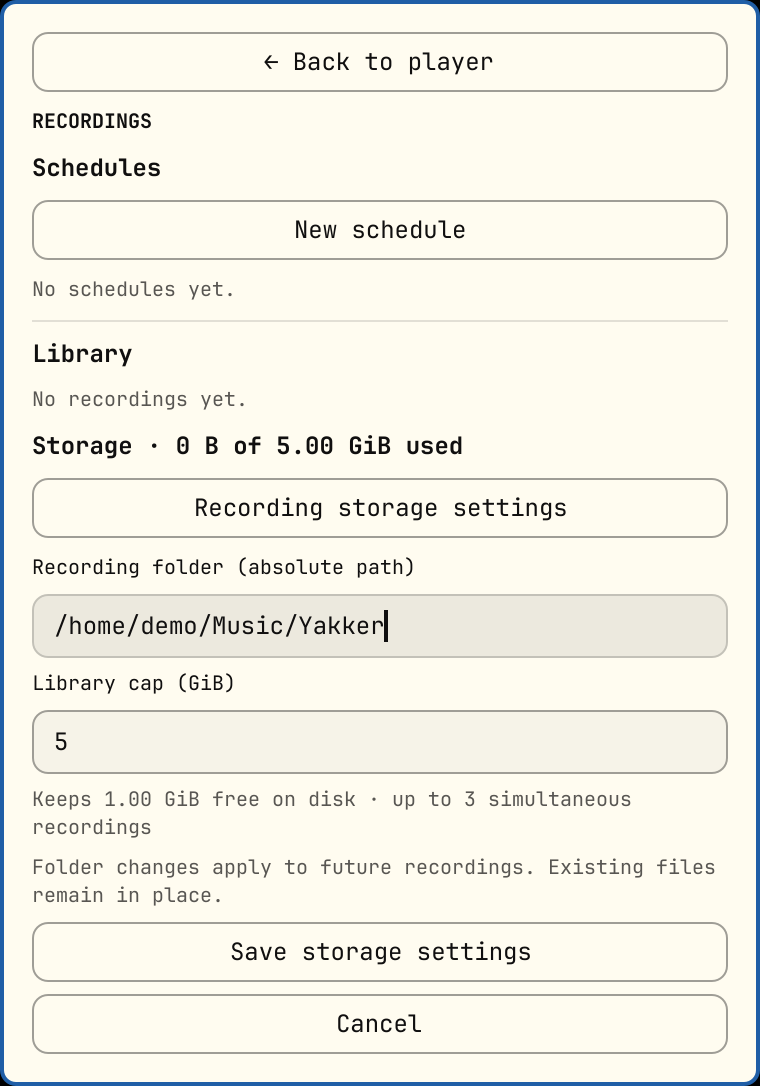
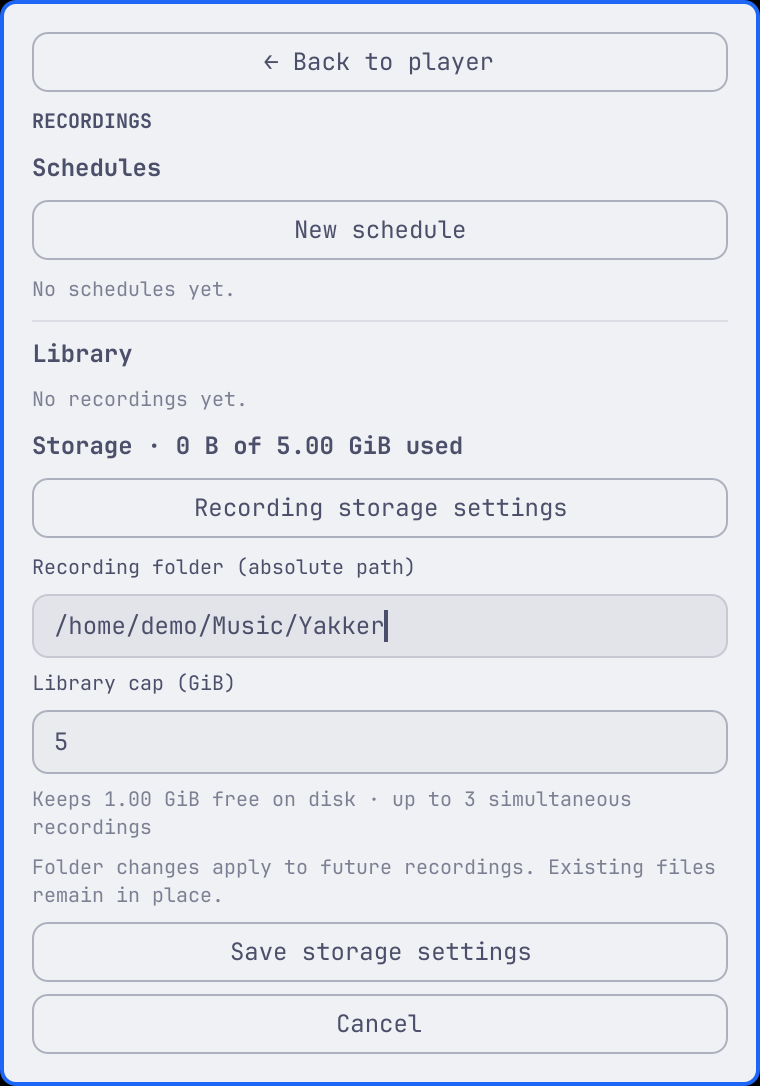
Use Catppuccin Latte consistently in README screenshots

diff --git a/tools/readme/gallery.qml b/tools/readme/gallery.qml
@@ -62,7 +62,6 @@ ShellRoot {
           Commons.Style.fontFamily = "JetBrainsMono Nerd Font"
           themes = JSON.parse(readFile("themes.json"))
           compare(Object.keys(themes).length, 8)
-          compare(new Set(Object.values(themes)).size, 8)
           radio.stations = JSON.parse(readFile("plugin/stations.json"))
           radio.station = radio.stations[0]
           radio.stationId = radio.station.id

diff --git a/README.md b/README.md
@@ -27,15 +27,14 @@ The bundled station logos belong to their respective owners; see [artwork attrib
 | Live radio | Pause and rewind | Recording library |
 | :---: | :---: | :---: |
 | [<img src="docs/yakker-popup.png" alt="Live player with favorite station, cassette and settings icons, and a compact rewind, Stop, Play/Pause, forward row" width="240">](docs/yakker-popup.png) | [<img src="docs/yakker-dvr.png" alt="Paused radio with 15 minutes of history, a seek timeline, and Go live" width="240">](docs/yakker-dvr.png) | [<img src="docs/yakker-recordings.png" alt="Recording library with a weekday schedule, an active capture, and a saved show ready to play" width="240">](docs/yakker-recordings.png) |
-| **Solitude** | **Nord** | **Jade Horse** |
 
 | Favorites and search | Weekly schedules | Settings and custom stations |
 | :---: | :---: | :---: |
 | [<img src="docs/yakker-stations.png" alt="Searchable station list with favorites sorted first" width="240">](docs/yakker-stations.png) | [<img src="docs/yakker-schedule.png" alt="Schedule editor with weekdays, start and end times, timezone, and next-occurrence preview control" width="240">](docs/yakker-schedule.png) | [<img src="docs/yakker-settings.png" alt="Settings with listening buffer, recording storage, and custom station controls" width="240">](docs/yakker-settings.png) |
-| **Lupine** | **Catppuccin Latte** | **Ristretto** |
 
-_Select any screenshot to enlarge it; Omarchy themes are labeled below each image.
-Screens show the current native UI with
+Yakker follows your active Omarchy theme. Screenshots use Catppuccin Latte.
+
+_Select any screenshot to enlarge it. Screens show the current native UI with
 illustrative playback and recording data; see [how to refresh them](docs/screenshots.md)._
 
 ## Stations
@@ -232,7 +231,6 @@ ones you want.
 | Saved-show playback | Recording storage |
 | :---: | :---: |
 | [<img src="docs/yakker-recording-player.png" alt="Saved recording playing with the compact transport row, duration-based timeline, and Return to live" width="300">](docs/yakker-recording-player.png) | [<img src="docs/yakker-storage.png" alt="Recording storage settings with an editable folder, library cap, free-space reserve, and concurrency limit" width="300">](docs/yakker-storage.png) |
-| **Tokyo Night** | **Flexoki Light** |
 
 Up to **three recordings** can run at once, including while you listen to another
 station. Closing the popup, stopping foreground audio, changing stations, or

diff --git a/docs/screenshots.md b/docs/screenshots.md
@@ -22,18 +22,9 @@ desktop theme or modify desktop configuration. Images use a two-times display
 scale for sharpness. Review every image after a capture, especially dropdown
 placement, text wrapping, and long editor screens.
 
-Each of the eight screenshots uses a different Omarchy theme:
-
-| Screenshot | Theme |
-| --- | --- |
-| `yakker-popup.png` | Solitude |
-| `yakker-dvr.png` | Nord |
-| `yakker-recordings.png` | Jade Horse |
-| `yakker-stations.png` | Lupine |
-| `yakker-schedule.png` | Catppuccin Latte |
-| `yakker-settings.png` | Ristretto |
-| `yakker-recording-player.png` | Tokyo Night |
-| `yakker-storage.png` | Flexoki Light |
+All eight screenshots use **Catppuccin Latte** for a consistent presentation.
+Yakker follows the user's active Omarchy theme; the screenshots are a shared
+visual reference, not a separate theme setting in Yakker.
 
 The images render the checkout's actual `Panel.qml`, `RecordingsView.qml`, and
 shared native controls. A headless wrapper reproduces the popup card's border,
